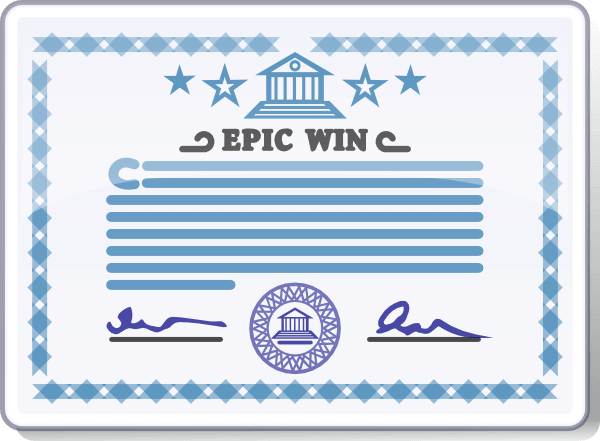
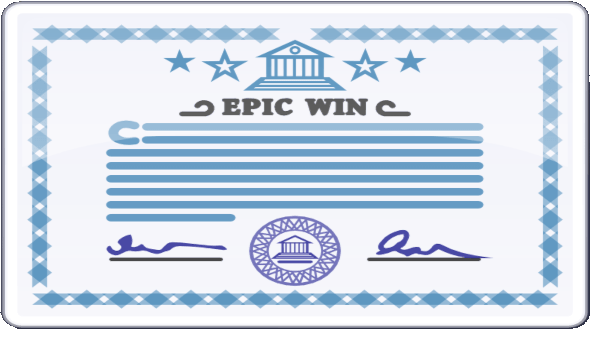
fix(a11y): Address a11y validation recommendations
Changes to several posts to address accessibility recommendations:
- Move heading to top
- Change h2 → h1
- Remove conditional block around featured image
- Better image alt text
- Add figcaption
- Remove `<g>` elements (from Grammarly?)
- Remove remnants of Jetpack tags
- Crop / resize images to 16:9

diff --git a/docs/blog/history/2/index.html b/docs/blog/history/2/index.html
@@ -56,27 +56,29 @@
 </nav>
     </header>
 
-    <main class="main"><h1>Blog History Page 2</h1><article class="collections-post"><div class="collections-post__content"><p></p><figure class="post__image">
-<img src="/wp-content/uploads/2019/05/baby-2709666_640-min.jpg" alt="The Frustrating Flaw in Online Learning">
-</figure><p></p>
-<h2 class="post__title"><a href="/the-frustrating-flaw-in-online-learning/">The Frustrating Flaw in Online Learning</a></h2>
+    <main class="main"><h1>Blog History Page 2</h1><article class="collections-post"><div class="collections-post__content"><h1 class="post__title"><a href="/the-frustrating-flaw-in-online-learning/">The Frustrating Flaw in Online Learning</a></h1>
 <div class="post__date">27th April 2018 - Friday</div>
+<figure class="post__image">
+    <img src="/wp-content/uploads/2019/05/baby-2709666_640-min.jpg" alt="In front of a blackboard covered with question marks, a baby sits behind a laptop computer">
+    <figcaption>Can I learn like this?</figcaption>
+</figure>
 <p>Online courses all seem to share one flaw… To put it bluntly, they piss me off… Inconsistent information, outdated materials, poor explanation of key concepts, and, sometimes, patently incorrect information. But if I stop to think about it for a moment, it’s actually a feature.</p>
-<div class="wp-block-jetpack-markdown">I’ve taken advantage of **a lot** of online curriculum. I’ve been active at freeCodeCamp, Udemy, Udacity, [Codecademy](https://www.codecademy.com/profiles/vaggrippino), [Code School](https://app.pluralsight.com/profile/vince-aggrippino), Coursera, [Khan Academy](https://www.khanacademy.org/profile/vaggrippino/), and edX, just to name a few.
+<p>I’ve taken advantage of <strong>a lot</strong> of online curriculum. I’ve been active at freeCodeCamp, Udemy, Udacity, <a href="https://www.codecademy.com/profiles/vaggrippino">Codecademy</a>, <a href="https://app.pluralsight.com/profile/vince-aggrippino">Code School</a>, Coursera, <a href="https://www.khanacademy.org/profile/vaggrippino/">Khan Academy</a>, and edX, just to name a few.</p>
 <p>I can’t tell you how many times I’ve typed a long, angry tirade about inconsistencies or impossible questions only to delete the whole thing as soon as I calm down. (Well, a few might have been submitted 😳)</p>
 <p>It’s a problem, but it’s really a feature. If we coast through a course from beginning to end without ever needing another site, it might result in a smoother experience, but we wouldn’t learn much. It doesn’t matter how good the course is. We <em>need</em> other perspectives or more detailed information from multiple sources. More importantly, we need to learn <em>how</em> to find information without a guide. And, especially in IT, we need to be very good at sorting out conflicting information and correcting errors in code and documentation. Without these supporting skills, the learned skill can’t be effectively applied on the job.</p>
-</div></div></article><article class="collections-post"><div class="collections-post__content"><p></p><figure class="post__image">
-<img src="/wp-content/uploads/2019/05/1257361658961176606DooFi_Certificate.svg.hi-min.png" alt="Certificates Are Worthless">
-</figure><p></p>
-<h2 class="post__title"><a href="/certificates-are-worthless/">Certificates Are Worthless</a></h2>
+</div></article><article class="collections-post"><div class="collections-post__content"><h1 class="post__title"><a href="/certificates-are-worthless/">Certificates Are Worthless</a></h1>
 <div class="post__date">28th April 2018 - Saturday</div>
+<figure class="post__image">
+    <img src="/wp-content/uploads/2019/05/1257361658961176606DooFi_Certificate.svg.hi-min.png" alt="A cartoonish mock-up of a certificate showing the text “Epic Win”">
+    <figcaption>Will this really help me get a job?</figcaption>
+</figure>
 <p>There are many published opinions on the value of IT certifications when you’re looking for a job. If you do a web search, you’ll find ’em. They range from “it depends on the certification” to “they’re absolutely essential”. Well, I’m going to go out on a limb here and say that certifications are nearly worthless.</p>
-<div class="wp-block-jetpack-markdown">Those who write about IT certification usually have something at stake. Either there’s a financial incentive or they want to emphasize their own expertise. The point is, you can’t trust ’em. I can’t really say I’m that much different… My [Front End Certification](https://www.freecodecamp.org/certification/vinceaggrippino/legacy-front-end) from freeCodeCamp is the only "education" item I can list on my résumé. It’ would benefit me greatly to convince people that my certification is very valueable, but I guess my honesty is my downfall. In this digital age, that certificate alone isn’t even worth the paper it’s not printed on… And, wouldn’t you know it, I’m unemployed.
+<p>Those who write about IT certification usually have something at stake. Either there’s a financial incentive or they want to emphasize their own expertise. The point is, you can’t trust ’em. I can’t really say I’m that much different… My <a href="https://www.freecodecamp.org/certification/vinceaggrippino/legacy-front-end">Front End Certification</a> from freeCodeCamp is the only "education" item I can list on my résumé. It’ would benefit me greatly to convince people that my certification is very valueable, but I guess my honesty is my downfall. In this digital age, that certificate alone isn’t even worth the paper it’s not printed on… And, wouldn’t you know it, I’m unemployed.</p>
 <p>When you apply for a job, the employer’s only questions are "Can this person do the job?" and then "How well?". Education doesn’t even really matter, but, chances are, the first person to look at the stack of résumés isn’t going to be the technical manager, but a hiring manager. They might not be intimately familiar with the job you’re applying for, but they know the posted requirements… <em>x degree</em>, <em>y years of experience</em>, <em>skills a, b, &amp; c</em>.</p>
 <p>Since there’s been a lot of popular commentary downplaying the value of traditional education, your application won’t necessarily be deleted without the degree, but a degree holder (even in an unrelated field) will still be considered before anyone with only a certification… Someone with more experience will always be considered before someone with just a certification… Someone with demonstrated skills will always be considered before someone who picked up their skills earning a certification… Do you see the pattern? It is <em>only</em> when all other things are equal that a certification will be a benefit.</p>
 <p>If your résumé does make it to the technical manager then the priorities are rearranged a bit. At this point, degree and certification are meaningless. It’s all about skills and the experience applying those skills. This is the critical stage, and this is where "it depends" comes in. Projects built while earning a certification can effectively demonstrate your skills, but not the certification itself.</p>
 <p>And this is the moral of the story… A certification program can be a great tool for picking up new skills, but it’s only in the application of these skills that we become valuable to employers. If traditional education is an option, consider it carefully, but the rest of us need to focus on building our résumé, not collecting certifications, long before we start the application process. Even if you’re building projects to earn a certification, make ’em good because you may want to show them on your résumé some day.</p>
-</div></div></article><article class="collections-post"><div class="collections-post__content"><p></p><figure class="post__image">
+</div></article><article class="collections-post"><div class="collections-post__content"><p></p><figure class="post__image">
 <img src="/wp-content/uploads/2019/02/best-cheap-wordpress-hosting-comparison-1024x512.jpg" alt="WordPress: Where to host, at first...">
 </figure><p></p>
 <h2 class="post__title"><a href="/wordpress-where-to-host-at-first/">WordPress: Where to host, at first...</a></h2>

diff --git a/docs/certificates-are-worthless/index.html b/docs/certificates-are-worthless/index.html
@@ -56,18 +56,19 @@
 </nav>
     </header>
 
-    <main class="main"><p></p><figure class="post__image">
-<img src="/wp-content/uploads/2019/05/1257361658961176606DooFi_Certificate.svg.hi-min.png" alt="Certificates Are Worthless">
-</figure><p></p>
-<h2 class="post__title"><a href="/certificates-are-worthless/">Certificates Are Worthless</a></h2>
+    <main class="main"><h1 class="post__title"><a href="/certificates-are-worthless/">Certificates Are Worthless</a></h1>
 <div class="post__date">28th April 2018 - Saturday</div>
+<figure class="post__image">
+    <img src="/wp-content/uploads/2019/05/1257361658961176606DooFi_Certificate.svg.hi-min.png" alt="A cartoonish mock-up of a certificate showing the text “Epic Win”">
+    <figcaption>Will this really help me get a job?</figcaption>
+</figure>
 <p>There are many published opinions on the value of IT certifications when you’re looking for a job. If you do a web search, you’ll find ’em. They range from “it depends on the certification” to “they’re absolutely essential”. Well, I’m going to go out on a limb here and say that certifications are nearly worthless.</p>
-<div class="wp-block-jetpack-markdown">Those who write about IT certification usually have something at stake. Either there’s a financial incentive or they want to emphasize their own expertise. The point is, you can’t trust ’em. I can’t really say I’m that much different… My [Front End Certification](https://www.freecodecamp.org/certification/vinceaggrippino/legacy-front-end) from freeCodeCamp is the only "education" item I can list on my résumé. It’ would benefit me greatly to convince people that my certification is very valueable, but I guess my honesty is my downfall. In this digital age, that certificate alone isn’t even worth the paper it’s not printed on… And, wouldn’t you know it, I’m unemployed.
+<p>Those who write about IT certification usually have something at stake. Either there’s a financial incentive or they want to emphasize their own expertise. The point is, you can’t trust ’em. I can’t really say I’m that much different… My <a href="https://www.freecodecamp.org/certification/vinceaggrippino/legacy-front-end">Front End Certification</a> from freeCodeCamp is the only "education" item I can list on my résumé. It’ would benefit me greatly to convince people that my certification is very valueable, but I guess my honesty is my downfall. In this digital age, that certificate alone isn’t even worth the paper it’s not printed on… And, wouldn’t you know it, I’m unemployed.</p>
 <p>When you apply for a job, the employer’s only questions are "Can this person do the job?" and then "How well?". Education doesn’t even really matter, but, chances are, the first person to look at the stack of résumés isn’t going to be the technical manager, but a hiring manager. They might not be intimately familiar with the job you’re applying for, but they know the posted requirements… <em>x degree</em>, <em>y years of experience</em>, <em>skills a, b, &amp; c</em>.</p>
 <p>Since there’s been a lot of popular commentary downplaying the value of traditional education, your application won’t necessarily be deleted without the degree, but a degree holder (even in an unrelated field) will still be considered before anyone with only a certification… Someone with more experience will always be considered before someone with just a certification… Someone with demonstrated skills will always be considered before someone who picked up their skills earning a certification… Do you see the pattern? It is <em>only</em> when all other things are equal that a certification will be a benefit.</p>
 <p>If your résumé does make it to the technical manager then the priorities are rearranged a bit. At this point, degree and certification are meaningless. It’s all about skills and the experience applying those skills. This is the critical stage, and this is where "it depends" comes in. Projects built while earning a certification can effectively demonstrate your skills, but not the certification itself.</p>
 <p>And this is the moral of the story… A certification program can be a great tool for picking up new skills, but it’s only in the application of these skills that we become valuable to employers. If traditional education is an option, consider it carefully, but the rest of us need to focus on building our résumé, not collecting certifications, long before we start the application process. Even if you’re building projects to earn a certification, make ’em good because you may want to show them on your résumé some day.</p>
-</div></main>
+</main>
     <footer class="footer"></footer>
 
     <script src="/js/main.js"></script>

diff --git a/docs/losing-momentum/index.html b/docs/losing-momentum/index.html
@@ -56,20 +56,21 @@
 </nav>
     </header>
 
-    <main class="main"><p></p><figure class="post__image">
-<img src="/wp-content/uploads/2019/05/headache-1910644_640-min.jpg" alt="Losing Momentum">
-</figure><p></p>
-<h2 class="post__title"><a href="/losing-momentum/">Losing Momentum</a></h2>
+    <main class="main"><h1 class="post__title"><a href="/losing-momentum/">Losing Momentum</a></h1>
 <div class="post__date">30th April 2018 - Monday</div>
+<figure class="post__image">
+    <img src="/wp-content/uploads/2019/05/headache-1910644_640-min.jpg" alt="A middle-aged man, looking tired and defeated holds his head with one hand">
+    <figcaption>I don't feel like I can keep going...</figcaption>
+</figure>
 <p>I’m losing my momentum. That <em>new project</em> enthusiasm is gone and I’m faced with distraction and doubt. What do I do? Choose an easier alternative? Prepare more before continuing? Or push forward at a unique and considerable risk?</p>
-<div class="wp-block-jetpack-markdown">The greatest barrier to my employment right now is the lack of a good portfolio. With this in mind, I put together a list of projects to build that I think will demonstrate the full range of my skills… Copies of existing sites with unique modifications… Re-creations of old sites with my own perspective on how they should be built today… And, some original ideas. These are all high-quality, broadly scoped projects targeting real use cases. They are *not* quick one or two day jobs.
+<p>The greatest barrier to my employment right now is the lack of a good portfolio. With this in mind, I put together a list of projects to build that I think will demonstrate the full range of my skills… Copies of existing sites with unique modifications… Re-creations of old sites with my own perspective on how they should be built today… And, some original ideas. These are all high-quality, broadly scoped projects targeting real use cases. They are <em>not</em> quick one or two day jobs.</p>
 <p>About three weeks ago, I chose one from the list and started work. Now I’m at a critical stage. There are, of course, implementation challenges, but that was expected. The problem is that it’s not a new project any more. I’m fixing bugs more than I’m adding features and I’m caught under the avalanche of minutiae of making it <em>just right</em>. It has become a grind: <em>feature… bug… bug… bug… feature… bug… bug…</em> and so on. I’m tired. I don’t look forward to working on it any more. I find my mind wandering. I’m prone to distraction and doubt. Seemingly on it’s own, My mind is tempting me with alternatives… <em>Maybe I should work on my résumé instead.</em> … <em>Maybe I should work on my blog instead.</em> … <em>Maybe I should do some Upwork projects instead.</em> … <em>Maybe I should read more about creating a portfolio first.</em> …</p>
 <p><em>This</em> is a critical time. I know all too well that this happens in any project that takes more than a couple of days to finish.</p>
 <p>Admittedly, my mental stamina is quite low. It’s my own fault, but at the same time I feel like it was completely out of my control.</p>
 <p>For several years after I got out of the Army, I coasted. I did quite well for myself. I had no focus at all, but I had endless energy and boundless enthusiasm. Then I got sick. My energy disappeared and my enthusiasm turned to fear. My constant worry that I would trigger another <em>episode</em> taught me to <em>back off</em> whenever I felt stress. I got very good at <em>backing off</em> and lost the ability to <em>follow through</em>.</p>
 <p>Then, my daughter started speaking and dreaming and wanting things beyond simple candy and toys. She has dreams and goals of her own now. What kind of example do I set if I stop working whenever my initial enthusiasm wears off. What kind of parent am I if I don’t earn an income to provide her with a decent education or an environment where her imagination can flourish and she can achieve her goals?</p>
 <p>No! I will not <em>back off</em>! This is the mental equivalent of <a href="https://en.wikipedia.org/wiki/Training_to_failure">muscle failure</a> and I must push in order to grow. This is an essential trial and I must not fail if I want to … be a person again.</p>
-</div></main>
+</main>
     <footer class="footer"></footer>
 
     <script src="/js/main.js"></script>

diff --git a/docs/work-life-imbalance/index.html b/docs/work-life-imbalance/index.html
@@ -56,20 +56,21 @@
 </nav>
     </header>
 
-    <main class="main"><p></p><figure class="post__image">
-<img src="/wp-content/uploads/2019/05/scale-2634795_640-min.jpg" alt="Work / Life Imbalance">
-</figure><p></p>
-<h2 class="post__title"><a href="/work-life-imbalance/">Work / Life Imbalance</a></h2>
+    <main class="main"><h1 class="post__title"><a href="/work-life-imbalance/">Work / Life Imbalance</a></h1>
 <div class="post__date">26th April 2018 - Thursday</div>
+<figure class="post__image">
+    <img src="/wp-content/uploads/2019/05/scale-2634795_640-min.jpg" alt="A balance scale">
+    <figcaption>Balancing it all seems impossible sometimes.</figcaption>
+</figure>
 <p>You’re watching YouTube when you see a strange video entitled “No matter what, the work stays on!” …</p>
 <p>The scene opens to a large set of balance scales resting on a low platform. A man puts a big shiny metal weight embossed with the word “work” on the left side of the scales. Next to it, he puts another weight. This one is marked “learning”.</p>
-<div class="wp-block-jetpack-markdown">On the right side, he starts placing roughly formed gray cement bricks. One at a time, brick after brick, and the right side soon outweighs the left. He keeps going, and we see that each brick is engraved with a different word. The first one says "daughter". Then "wife"… More bricks… "house"… "diet"… As he continues, you notice that the condition of each brick is worse than the last. Only the first one, "daughter", appears to have been handled carefully. The rest are dirty and broken… "health"… "exercise"… The scale starts to overbalance and nearly falls over. You hear the man curse under his breath as he steps on the base of the scale to keep it from falling over… "pain"… and finally… "sleep".
+<p>On the right side, he starts placing roughly formed gray cement bricks. One at a time, brick after brick, and the right side soon outweighs the left. He keeps going, and we see that each brick is engraved with a different word. The first one says "daughter". Then "wife"… More bricks… "house"… "diet"… As he continues, you notice that the condition of each brick is worse than the last. Only the first one, "daughter", appears to have been handled carefully. The rest are dirty and broken… "health"… "exercise"… The scale starts to overbalance and nearly falls over. You hear the man curse under his breath as he steps on the base of the scale to keep it from falling over… "pain"… and finally… "sleep".</p>
 <p>At first, the weights for "learning" and "work" seemed heavy, but now they look small by comparison to the stack of bricks. Somehow, though, he’s keeping everything in place. He seems satisfied with his work.</p>
 <p>Just as he’s appraising his efforts, a large cinder block flies through the air and strikes the man in the back of the head! He falls forward, knocking over the scales along with all the bricks and the metal weights.</p>
 <p>With blood oozing from a wound at the back of his head, you wonder if he’s dead, but he stirs. Disoriented and confused, he stands and looks at the cinder block with disgust. Then he proceeds to set up the scales again. First placing the metal weights, then each brick just as before. Finally, he picks up the cinder block and, placing both feet on the base of the scale, he carefully balances it on top of the other bricks. Now we can see what’s engraved in the side of the cinder block… "mental health".</p>
 <p>Our protagonist, sweating, bloody, and exhausted, glances up at the "work" and "learning" weights before looking directly at the camera and, flashing his best winning smile, gives a <em>thumbs up</em> before the scene fades to black.</p>
 <p>"That was weird." you say out loud before clicking <em>thumbs down</em>. Then you click on a "related" video about work / life balance from someone who quit their job to be a full-time <em>YouTuber</em>. "He must know what he’s talking about." you think to yourself… "He has over 100,000 subscribers!"</p>
-</div></main>
+</main>
     <footer class="footer"></footer>
 
     <script src="/js/main.js"></script>

diff --git a/docs/the-frustrating-flaw-in-online-learning/index.html b/docs/the-frustrating-flaw-in-online-learning/index.html
@@ -56,16 +56,17 @@
 </nav>
     </header>
 
-    <main class="main"><p></p><figure class="post__image">
-<img src="/wp-content/uploads/2019/05/baby-2709666_640-min.jpg" alt="The Frustrating Flaw in Online Learning">
-</figure><p></p>
-<h2 class="post__title"><a href="/the-frustrating-flaw-in-online-learning/">The Frustrating Flaw in Online Learning</a></h2>
+    <main class="main"><h1 class="post__title"><a href="/the-frustrating-flaw-in-online-learning/">The Frustrating Flaw in Online Learning</a></h1>
 <div class="post__date">27th April 2018 - Friday</div>
+<figure class="post__image">
+    <img src="/wp-content/uploads/2019/05/baby-2709666_640-min.jpg" alt="In front of a blackboard covered with question marks, a baby sits behind a laptop computer">
+    <figcaption>Can I learn like this?</figcaption>
+</figure>
 <p>Online courses all seem to share one flaw… To put it bluntly, they piss me off… Inconsistent information, outdated materials, poor explanation of key concepts, and, sometimes, patently incorrect information. But if I stop to think about it for a moment, it’s actually a feature.</p>
-<div class="wp-block-jetpack-markdown">I’ve taken advantage of **a lot** of online curriculum. I’ve been active at freeCodeCamp, Udemy, Udacity, [Codecademy](https://www.codecademy.com/profiles/vaggrippino), [Code School](https://app.pluralsight.com/profile/vince-aggrippino), Coursera, [Khan Academy](https://www.khanacademy.org/profile/vaggrippino/), and edX, just to name a few.
+<p>I’ve taken advantage of <strong>a lot</strong> of online curriculum. I’ve been active at freeCodeCamp, Udemy, Udacity, <a href="https://www.codecademy.com/profiles/vaggrippino">Codecademy</a>, <a href="https://app.pluralsight.com/profile/vince-aggrippino">Code School</a>, Coursera, <a href="https://www.khanacademy.org/profile/vaggrippino/">Khan Academy</a>, and edX, just to name a few.</p>
 <p>I can’t tell you how many times I’ve typed a long, angry tirade about inconsistencies or impossible questions only to delete the whole thing as soon as I calm down. (Well, a few might have been submitted 😳)</p>
 <p>It’s a problem, but it’s really a feature. If we coast through a course from beginning to end without ever needing another site, it might result in a smoother experience, but we wouldn’t learn much. It doesn’t matter how good the course is. We <em>need</em> other perspectives or more detailed information from multiple sources. More importantly, we need to learn <em>how</em> to find information without a guide. And, especially in IT, we need to be very good at sorting out conflicting information and correcting errors in code and documentation. Without these supporting skills, the learned skill can’t be effectively applied on the job.</p>
-</div></main>
+</main>
     <footer class="footer"></footer>
 
     <script src="/js/main.js"></script>

diff --git a/docs/blog/history/1/index.html b/docs/blog/history/1/index.html
@@ -60,7 +60,7 @@
 <div class="post__date">22nd April 2018 - Sunday</div>
 <figure class="post__image">
     <img src="/wp-content/uploads/2018/04/asphalt-balance-blur-268018_1200x628-min.jpg" alt="A short stack of three stones">
-    <figcaption>A short stack of three stones</figcaption>
+    <figcaption>Find just the right balance</figcaption>
 </figure>
 <p>Years ago, I proudly applied the LAMP (Linux, Apache, MySQL, PHP) stack to all of my web development efforts. Never mind that it was smack dab in the middle of the time when PHP deserved its bad reputation and most, if not all, of the code that I wrote was as bad as the worst out there. I was making money. I was confident, working steadily, and proud of my work.</p>
 <p>Times have changed. I took some time off from working and quite literally forgot everything I knew about Web Development. It was time to do some retraining.</p>
@@ -80,7 +80,7 @@
 <div class="post__date">24th April 2018 - Tuesday</div>
 <figure class="post__image">
     <img src="/wp-content/uploads/2018/04/20180424_041449_transitionend_Promise_demo.gif" alt="Animation shows a red rectangle moved on the click of a button, taking advantage of transitionend">
-    <figcaption>Animation shows a red rectangle moved on the click of a button, taking advantage of transitionend</figcaption>
+    <figcaption>A live version of this demo is embedded below.</figcaption>
 </figure>
 <p>I’m working on a page that displays thumbnail images. When I click on a thumbnail I want it to show an info box containing more image details. I’m using a CSS transition on the info box and I want to populate the image details while the info box is hidden. If the info box is already visible from clicking on a different thumbnail, I need to hide it first and populate the image details after the transition completes.</p>
 <p>Here’s some pseudocode that shows what I want to happen…</p>
@@ -110,7 +110,7 @@
 <div class="post__date">25th April 2018 - Wednesday</div>
 <figure class="post__image">
     <img src="/wp-content/uploads/2018/04/Portfolio.jpg" alt="Cartoon man gesturing toward a presentation showing boxes with question marks in them">
-    <figcaption>Cartoon man gesturing toward a presentation showing boxes with question marks in them</figcaption>
+    <figcaption>What do I need to show?</figcaption>
 </figure>
 <p>What am I supposed to put in my portfolio? Ideally, I’d have several projects that I built while learning as well as links to past employers’ websites that I contributed to. I should also have some testimonials from people I’ve worked with in the past, but I don’t have any of this.</p>
 <p>My professional history is too far in the past. My previous employers have either been bought / merged / closed or have moved far past my contributions.</p>

diff --git a/docs/transitionend-promise/index.html b/docs/transitionend-promise/index.html
@@ -60,7 +60,7 @@
 <div class="post__date">24th April 2018 - Tuesday</div>
 <figure class="post__image">
     <img src="/wp-content/uploads/2018/04/20180424_041449_transitionend_Promise_demo.gif" alt="Animation shows a red rectangle moved on the click of a button, taking advantage of transitionend">
-    <figcaption>Animation shows a red rectangle moved on the click of a button, taking advantage of transitionend</figcaption>
+    <figcaption>A live version of this demo is embedded below.</figcaption>
 </figure>
 <p>I’m working on a page that displays thumbnail images. When I click on a thumbnail I want it to show an info box containing more image details. I’m using a CSS transition on the info box and I want to populate the image details while the info box is hidden. If the info box is already visible from clicking on a different thumbnail, I need to hide it first and populate the image details after the transition completes.</p>
 <p>Here’s some pseudocode that shows what I want to happen…</p>

diff --git a/docs/whats-in-a-portfolio/index.html b/docs/whats-in-a-portfolio/index.html
@@ -60,7 +60,7 @@
 <div class="post__date">25th April 2018 - Wednesday</div>
 <figure class="post__image">
     <img src="/wp-content/uploads/2018/04/Portfolio.jpg" alt="Cartoon man gesturing toward a presentation showing boxes with question marks in them">
-    <figcaption>Cartoon man gesturing toward a presentation showing boxes with question marks in them</figcaption>
+    <figcaption>What do I need to show?</figcaption>
 </figure>
 <p>What am I supposed to put in my portfolio? Ideally, I’d have several projects that I built while learning as well as links to past employers’ websites that I contributed to. I should also have some testimonials from people I’ve worked with in the past, but I don’t have any of this.</p>
 <p>My professional history is too far in the past. My previous employers have either been bought / merged / closed or have moved far past my contributions.</p>

diff --git a/docs/whats-your-stack/index.html b/docs/whats-your-stack/index.html
@@ -60,7 +60,7 @@
 <div class="post__date">22nd April 2018 - Sunday</div>
 <figure class="post__image">
     <img src="/wp-content/uploads/2018/04/asphalt-balance-blur-268018_1200x628-min.jpg" alt="A short stack of three stones">
-    <figcaption>A short stack of three stones</figcaption>
+    <figcaption>Find just the right balance</figcaption>
 </figure>
 <p>Years ago, I proudly applied the LAMP (Linux, Apache, MySQL, PHP) stack to all of my web development efforts. Never mind that it was smack dab in the middle of the time when PHP deserved its bad reputation and most, if not all, of the code that I wrote was as bad as the worst out there. I was making money. I was confident, working steadily, and proud of my work.</p>
 <p>Times have changed. I took some time off from working and quite literally forgot everything I knew about Web Development. It was time to do some retraining.</p>

diff --git a/docs/so-im-blogging-again/index.html b/docs/so-im-blogging-again/index.html
@@ -60,7 +60,6 @@
 <div class="post__date">21st April 2018 - Saturday</div>
 <figure class="post__image">
     <img src="/wp-content/uploads/2018/04/alphabet-arts-and-crafts-blog-459688_1200x628-min.jpg" alt="Scrabble tiles scattered, mostly face down with four tiles face up spelling the word “BLOG”">
-    <figcaption>Scrabble tiles scattered, mostly face down with four tiles face up spelling the word “BLOG”</figcaption>
 </figure>
 <figure class="song">
     <blockquote class="song__quote">I'm back in the saddle again

diff --git a/_input/posts/2018-04-28-certificates-are-worthless.md b/_input/posts/2018-04-28-certificates-are-worthless.md
@@ -9,6 +9,8 @@ permalink: /certificates-are-worthless/
 inline_featured_image:
     - '0'
 image: /wp-content/uploads/2019/05/1257361658961176606DooFi_Certificate.svg.hi-min.png
+image_alt: "A cartoonish mock-up of a certificate showing the text &ldquo;Epic Win&rdquo;"
+image_caption: Will this really help me get a job?
 categories:
     - Career
     - Education
@@ -16,18 +18,17 @@ tags:
     - certification
 published: true
 ---
-{% if image %}
-    <figure class="post__image">
-        <img src="{{ image }}" alt="{{ image_alt }}">
-    </figure>
-{% endif %}
-
-<h2 class="post__title"><a href="{{ page.url }}">{{ title }}</a></h2>
+<h1 class="post__title"><a href="{{ page.url }}">{{ title }}</a></h1>
 <div class="post__date">{% formatted_date page.date %}</div>
+
+<figure class="post__image">
+    <img src="{{ image }}" alt="{{ image_alt }}">
+    <figcaption>{{ image_caption }}</figcaption>
+</figure>
 
  There are many published opinions on the value of IT certifications when you’re looking for a job. If you do a web search, you’ll find ’em. They range from “it depends on the certification” to “they’re absolutely essential”. Well, I’m going to go out on a limb here and say that certifications are nearly worthless.
 
-<div class="wp-block-jetpack-markdown">Those who write about IT certification usually have something at stake. Either there’s a financial incentive or they want to emphasize their own expertise. The point is, you can’t trust ’em. I can’t really say I’m that much different… My [Front End Certification](https://www.freecodecamp.org/certification/vinceaggrippino/legacy-front-end) from freeCodeCamp is the only "education" item I can list on my résumé. It’ would benefit me greatly to convince people that my certification is very valueable, but I guess my honesty is my downfall. In this digital age, that certificate alone isn’t even worth the paper it’s not printed on… And, wouldn’t you know it, I’m unemployed.
+Those who write about IT certification usually have something at stake. Either there’s a financial incentive or they want to emphasize their own expertise. The point is, you can’t trust ’em. I can’t really say I’m that much different… My [Front End Certification](https://www.freecodecamp.org/certification/vinceaggrippino/legacy-front-end) from freeCodeCamp is the only "education" item I can list on my résumé. It’ would benefit me greatly to convince people that my certification is very valueable, but I guess my honesty is my downfall. In this digital age, that certificate alone isn’t even worth the paper it’s not printed on… And, wouldn’t you know it, I’m unemployed.
 
 When you apply for a job, the employer’s only questions are "Can this person do the job?" and then "How well?". Education doesn’t even really matter, but, chances are, the first person to look at the stack of résumés isn’t going to be the technical manager, but a hiring manager. They might not be intimately familiar with the job you’re applying for, but they know the posted requirements… *x degree*, *y years of experience*, *skills a, b, &amp; c*.
 
@@ -36,5 +37,3 @@ Since there’s been a lot of popular commentary downplaying the value of tradit
 If your résumé does make it to the technical manager then the priorities are rearranged a bit. At this point, degree and certification are meaningless. It’s all about skills and the experience applying those skills. This is the critical stage, and this is where "it depends" comes in. Projects built while earning a certification can effectively demonstrate your skills, but not the certification itself.
 
 And this is the moral of the story… A certification program can be a great tool for picking up new skills, but it’s only in the application of these skills that we become valuable to employers. If traditional education is an option, consider it carefully, but the rest of us need to focus on building our résumé, not collecting certifications, long before we start the application process. Even if you’re building projects to earn a certification, make ’em good because you may want to show them on your résumé some day.
-
-</div>

diff --git a/_input/posts/2018-04-30-losing-momentum.md b/_input/posts/2018-04-30-losing-momentum.md
@@ -9,6 +9,8 @@ permalink: /losing-momentum/
 inline_featured_image:
     - '0'
 image: /wp-content/uploads/2019/05/headache-1910644_640-min.jpg
+image_alt: "A middle-aged man, looking tired and defeated holds his head with one hand"
+image_caption: I don't feel like I can keep going...
 categories:
     - Career
     - Motivation
@@ -16,18 +18,17 @@ tags:
     - motivation
 published: false
 ---
-{% if image %}
-    <figure class="post__image">
-        <img src="{{ image }}" alt="{{ image_alt }}">
-    </figure>
-{% endif %}
-
-<h2 class="post__title"><a href="{{ page.url }}">{{ title }}</a></h2>
+<h1 class="post__title"><a href="{{ page.url }}">{{ title }}</a></h1>
 <div class="post__date">{% formatted_date page.date %}</div>
+
+<figure class="post__image">
+    <img src="{{ image }}" alt="{{ image_alt }}">
+    <figcaption>{{ image_caption }}</figcaption>
+</figure>
 
  I’m losing my momentum. That *new project* enthusiasm is gone and I’m faced with distraction and doubt. What do I do? Choose an easier alternative? Prepare more before continuing? Or push forward at a unique and considerable risk?
 
-<div class="wp-block-jetpack-markdown">The greatest barrier to my employment right now is the lack of a good portfolio. With this in mind, I put together a list of projects to build that I think will demonstrate the full range of my skills… Copies of existing sites with unique modifications… Re-creations of old sites with my own perspective on how they should be built today… And, some original ideas. These are all high-quality, broadly scoped projects targeting real use cases. They are *not* quick one or two day jobs.
+The greatest barrier to my employment right now is the lack of a good portfolio. With this in mind, I put together a list of projects to build that I think will demonstrate the full range of my skills… Copies of existing sites with unique modifications… Re-creations of old sites with my own perspective on how they should be built today… And, some original ideas. These are all high-quality, broadly scoped projects targeting real use cases. They are *not* quick one or two day jobs.
 
 About three weeks ago, I chose one from the list and started work. Now I’m at a critical stage. There are, of course, implementation challenges, but that was expected. The problem is that it’s not a new project any more. I’m fixing bugs more than I’m adding features and I’m caught under the avalanche of minutiae of making it *just right*. It has become a grind: *feature… bug… bug… bug… feature… bug… bug…* and so on. I’m tired. I don’t look forward to working on it any more. I find my mind wandering. I’m prone to distraction and doubt. Seemingly on it’s own, My mind is tempting me with alternatives… *Maybe I should work on my résumé instead.* … *Maybe I should work on my blog instead.* … *Maybe I should do some Upwork projects instead.* … *Maybe I should read more about creating a portfolio first.* …
 
@@ -40,5 +41,3 @@ For several years after I got out of the Army, I coasted. I did quite well for m
 Then, my daughter started speaking and dreaming and wanting things beyond simple candy and toys. She has dreams and goals of her own now. What kind of example do I set if I stop working whenever my initial enthusiasm wears off. What kind of parent am I if I don’t earn an income to provide her with a decent education or an environment where her imagination can flourish and she can achieve her goals?
 
 No! I will not *back off*! This is the mental equivalent of [muscle failure](https://en.wikipedia.org/wiki/Training_to_failure) and I must push in order to grow. This is an essential trial and I must not fail if I want to … be a person again.
-
-</div>
